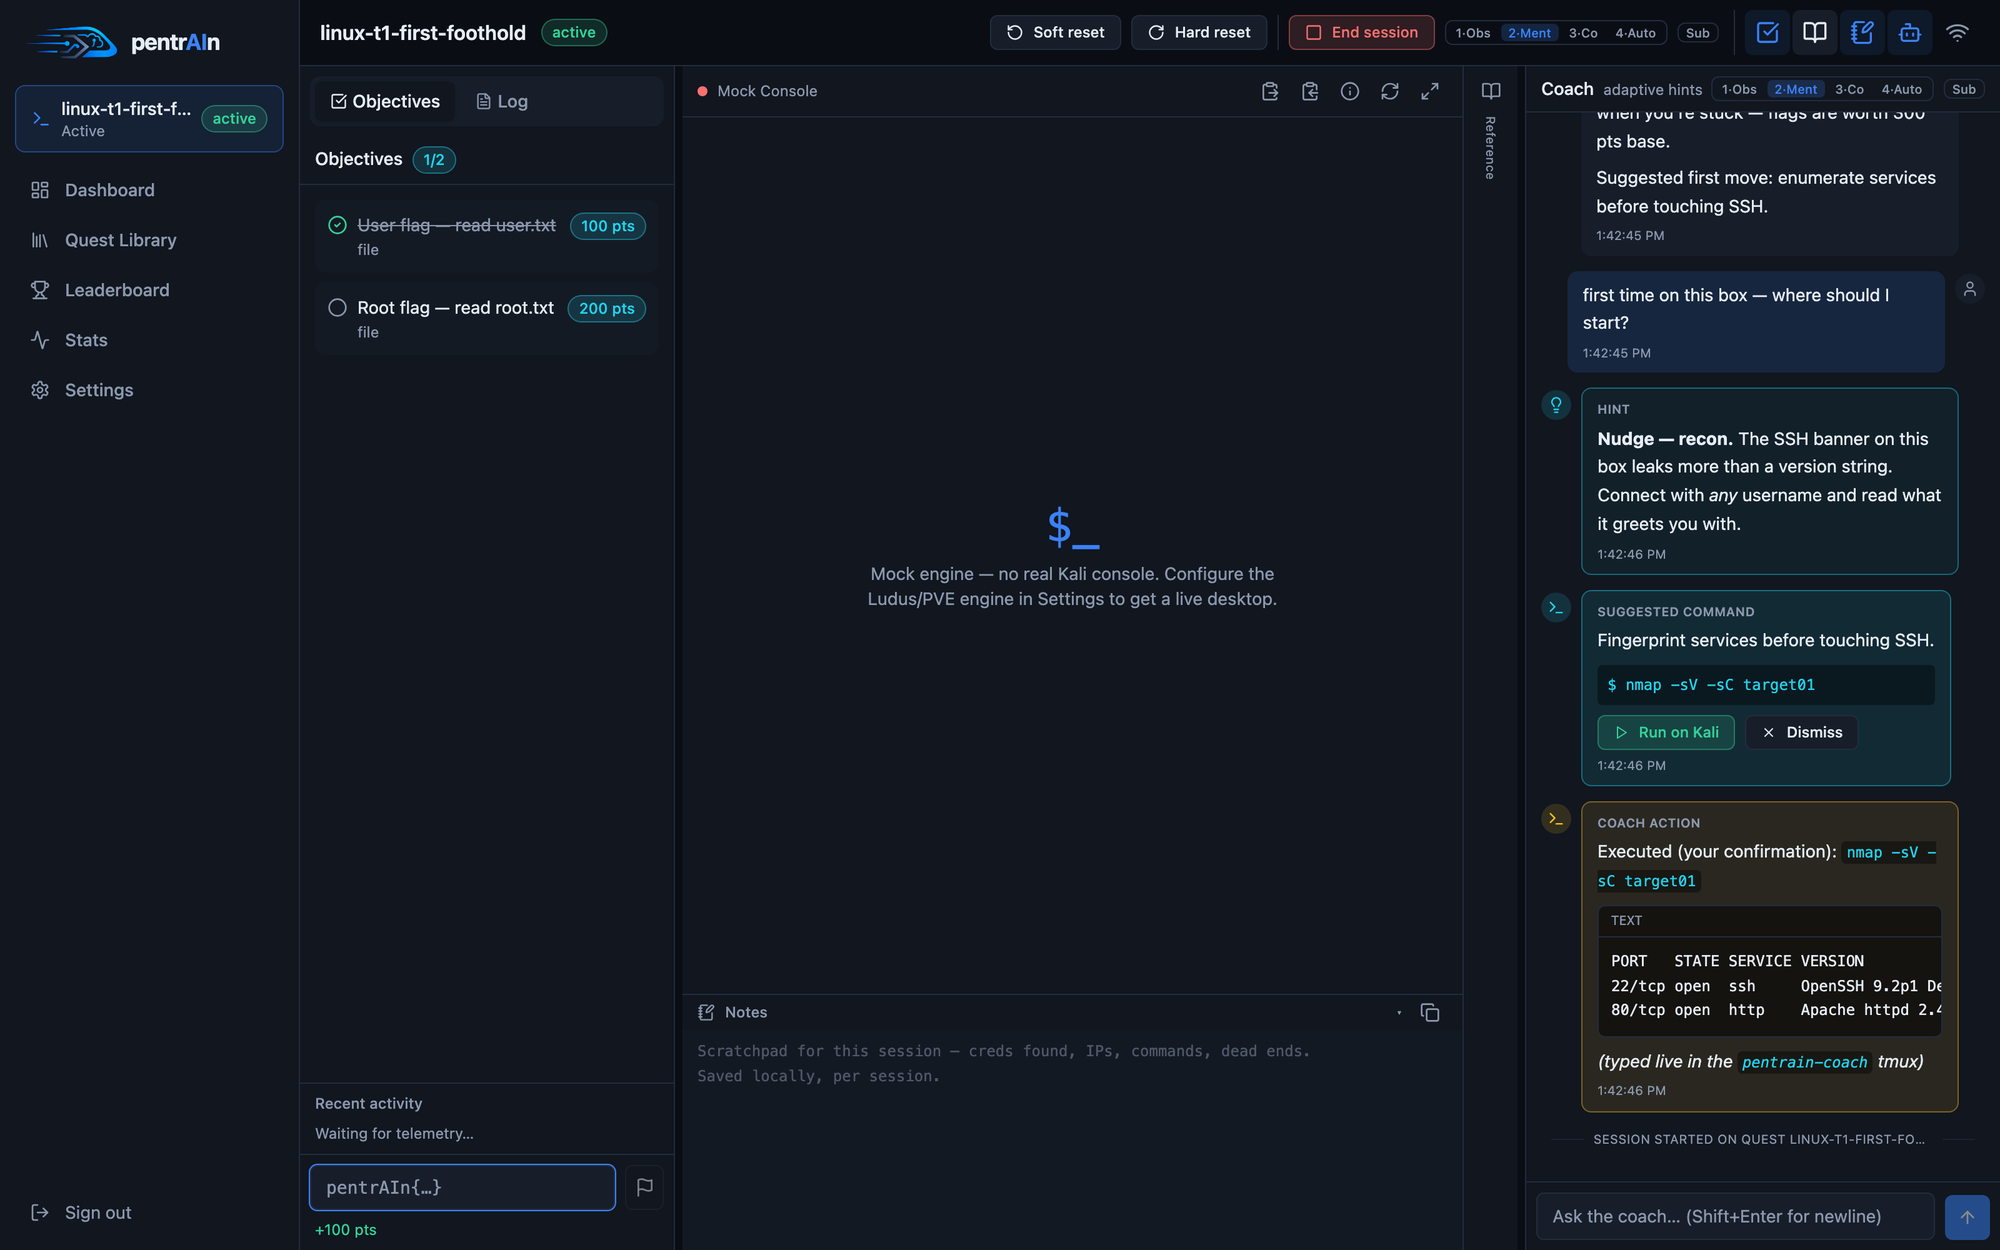
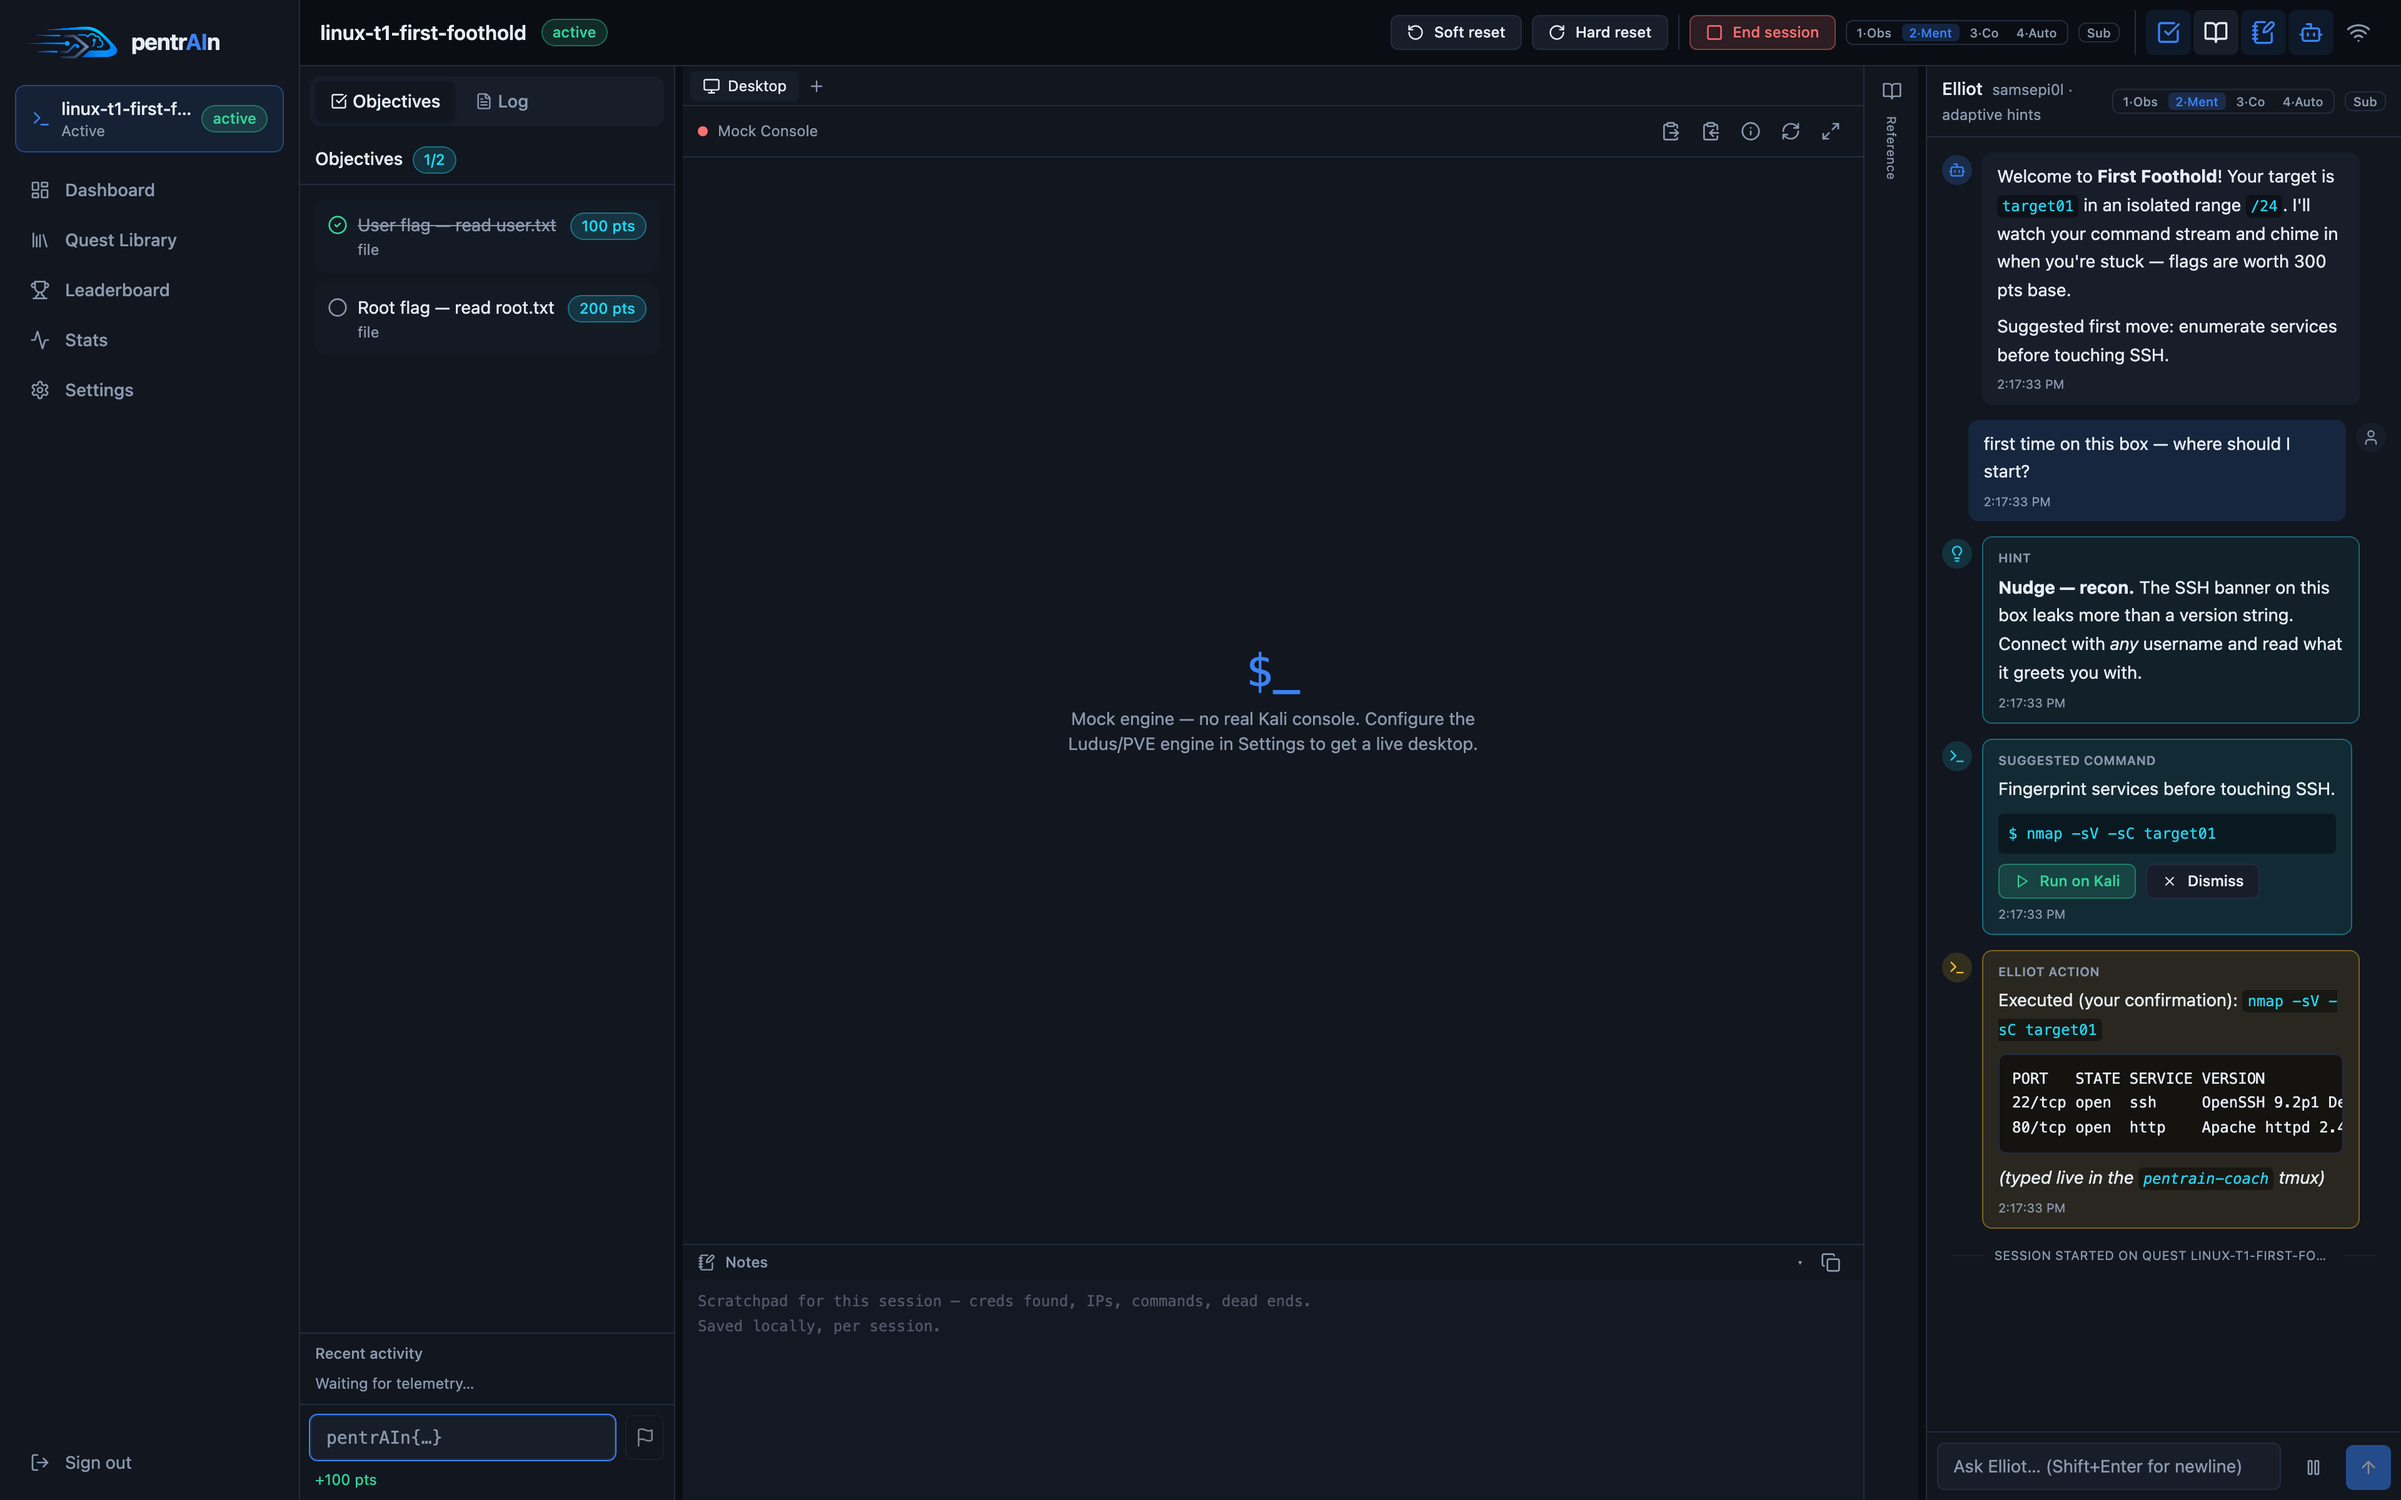
docs: recapture all media at 4K — shots 3840x2400, gifs 2880x1800
Viewport 1920x1200 now shared by shots (@2x) and gifs (@1.5x, new
--gif-scale flag) — the old gifs were visibly soft next to the 2x PNGs.
Also fixes the chat-panel selector for the Elliot rebrand.

diff --git a/docs/media/capture.py b/docs/media/capture.py
@@ -192,7 +192,7 @@ def confirm_lazy(page: Page) -> None:
 
 def open_chat_panel(page: Page) -> None:
     """Expand the coach panel; confirm the assistance lazy-modal if shown."""
-    page.click('button[title="Coach panel"]')
+    page.click('button[title="Elliot panel"]')
     page.wait_for_timeout(400)
     confirm_lazy(page)
 
@@ -268,7 +268,7 @@ def cmd_shots(args, api: Api) -> None:
         browser = p.chromium.launch()
         ctx: BrowserContext = browser.new_context(
             viewport={"width": args.width, "height": args.height},
-            device_scale_factor=2, color_scheme="dark")
+            device_scale_factor=args.scale, color_scheme="dark")
         page = ctx.new_page()
         dismiss_confirm(page)
 
@@ -355,8 +355,9 @@ def gif_quest_start(args, api: Api) -> None:
     out = ASSETS / "gifs"
     with sync_playwright() as p:
         browser = p.chromium.launch()
-        ctx = browser.new_context(viewport={"width": 1280, "height": 800},
-                                  color_scheme="dark")
+        ctx = browser.new_context(
+            viewport={"width": args.width, "height": args.height},
+            device_scale_factor=args.gif_scale, color_scheme="dark")
         page = ctx.new_page()
         dismiss_confirm(page)
         rec = Recorder(page)
@@ -387,8 +388,9 @@ def gif_coach_chat(args, api: Api) -> None:
     api.coach_msg(sid, COACH_WELCOME)
     with sync_playwright() as p:
         browser = p.chromium.launch()
-        ctx = browser.new_context(viewport={"width": 1280, "height": 800},
-                                  color_scheme="dark")
+        ctx = browser.new_context(
+            viewport={"width": args.width, "height": args.height},
+            device_scale_factor=args.gif_scale, color_scheme="dark")
         page = ctx.new_page()
         dismiss_confirm(page)
         rec = Recorder(page)
@@ -435,8 +437,9 @@ def gif_flag_solve(args, api: Api) -> None:
         raise RuntimeError("need 2 expected flags — seed the session first")
     with sync_playwright() as p:
         browser = p.chromium.launch()
-        ctx = browser.new_context(viewport={"width": 1280, "height": 800},
-                                  color_scheme="dark")
+        ctx = browser.new_context(
+            viewport={"width": args.width, "height": args.height},
+            device_scale_factor=args.gif_scale, color_scheme="dark")
         page = ctx.new_page()
         dismiss_confirm(page)
         rec = Recorder(page)
@@ -466,8 +469,9 @@ def gif_panels(args, api: Api) -> None:
     sid = _ready_session(api)
     with sync_playwright() as p:
         browser = p.chromium.launch()
-        ctx = browser.new_context(viewport={"width": 1280, "height": 800},
-                                  color_scheme="dark")
+        ctx = browser.new_context(
+            viewport={"width": args.width, "height": args.height},
+            device_scale_factor=args.gif_scale, color_scheme="dark")
         page = ctx.new_page()
         dismiss_confirm(page)
         rec = Recorder(page)
@@ -494,8 +498,9 @@ def gif_internet(args, api: Api) -> None:
     sid = _ready_session(api)
     with sync_playwright() as p:
         browser = p.chromium.launch()
-        ctx = browser.new_context(viewport={"width": 1280, "height": 800},
-                                  color_scheme="dark")
+        ctx = browser.new_context(
+            viewport={"width": args.width, "height": args.height},
+            device_scale_factor=args.gif_scale, color_scheme="dark")
         page = ctx.new_page()
         dismiss_confirm(page)
         rec = Recorder(page)
@@ -554,8 +559,10 @@ def main() -> None:
     ap.add_argument("--password", default="pentrain-docs")
     ap.add_argument("--coach-token", default="docs-coach-token")
     ap.add_argument("--db", default="/tmp/pentrain-docs.db")
-    ap.add_argument("--width", type=int, default=1600)
-    ap.add_argument("--height", type=int, default=1000)
+    ap.add_argument("--width", type=int, default=1920)
+    ap.add_argument("--height", type=int, default=1200)
+    ap.add_argument("--scale", type=float, default=2)
+    ap.add_argument("--gif-scale", type=float, default=1.5)
     args = ap.parse_args()
 
     api = Api(args.api, args.password, args.coach_token)

diff --git a/docs/media/README.md b/docs/media/README.md
@@ -68,8 +68,8 @@ docs/media/.venv/bin/python docs/media/capture.py seed \
 | Demo session | `POST /api/sessions` for `linux-t1-first-foothold`, waits for `ready`, activates |
 | Coach chat | Injects welcome/hint/suggestion/action-report messages via the coach service endpoints (`/api/coach/message|stream|suggest`) using `PENTRAIN_COACH_SERVICE_TOKEN` |
 | Flag submission | Reads expected secrets straight from the sqlite DB (`expected_flags` table — mock mode never writes into guests) and types them into the UI |
-| Screenshots | Full-page/viewport PNGs at 2× device scale |
-| GIFs | Viewport frames at ~5 fps, stitched with Pillow (`quantize(255)`, ~250 ms per frame) |
+| Screenshots | Full-page/viewport PNGs — 1920×1200 viewport at 2× device scale (3840×2400; `--width/--height/--scale`) |
+| GIFs | Same viewport at 1.5× scale (2880×1800; `--gif-scale`), frames at ~5 fps, stitched with Pillow (`quantize(255)`, ~250 ms per frame) |
 
 > [!NOTE]
 > The console area shows the MockProvider placeholder ("Mock engine — no real
